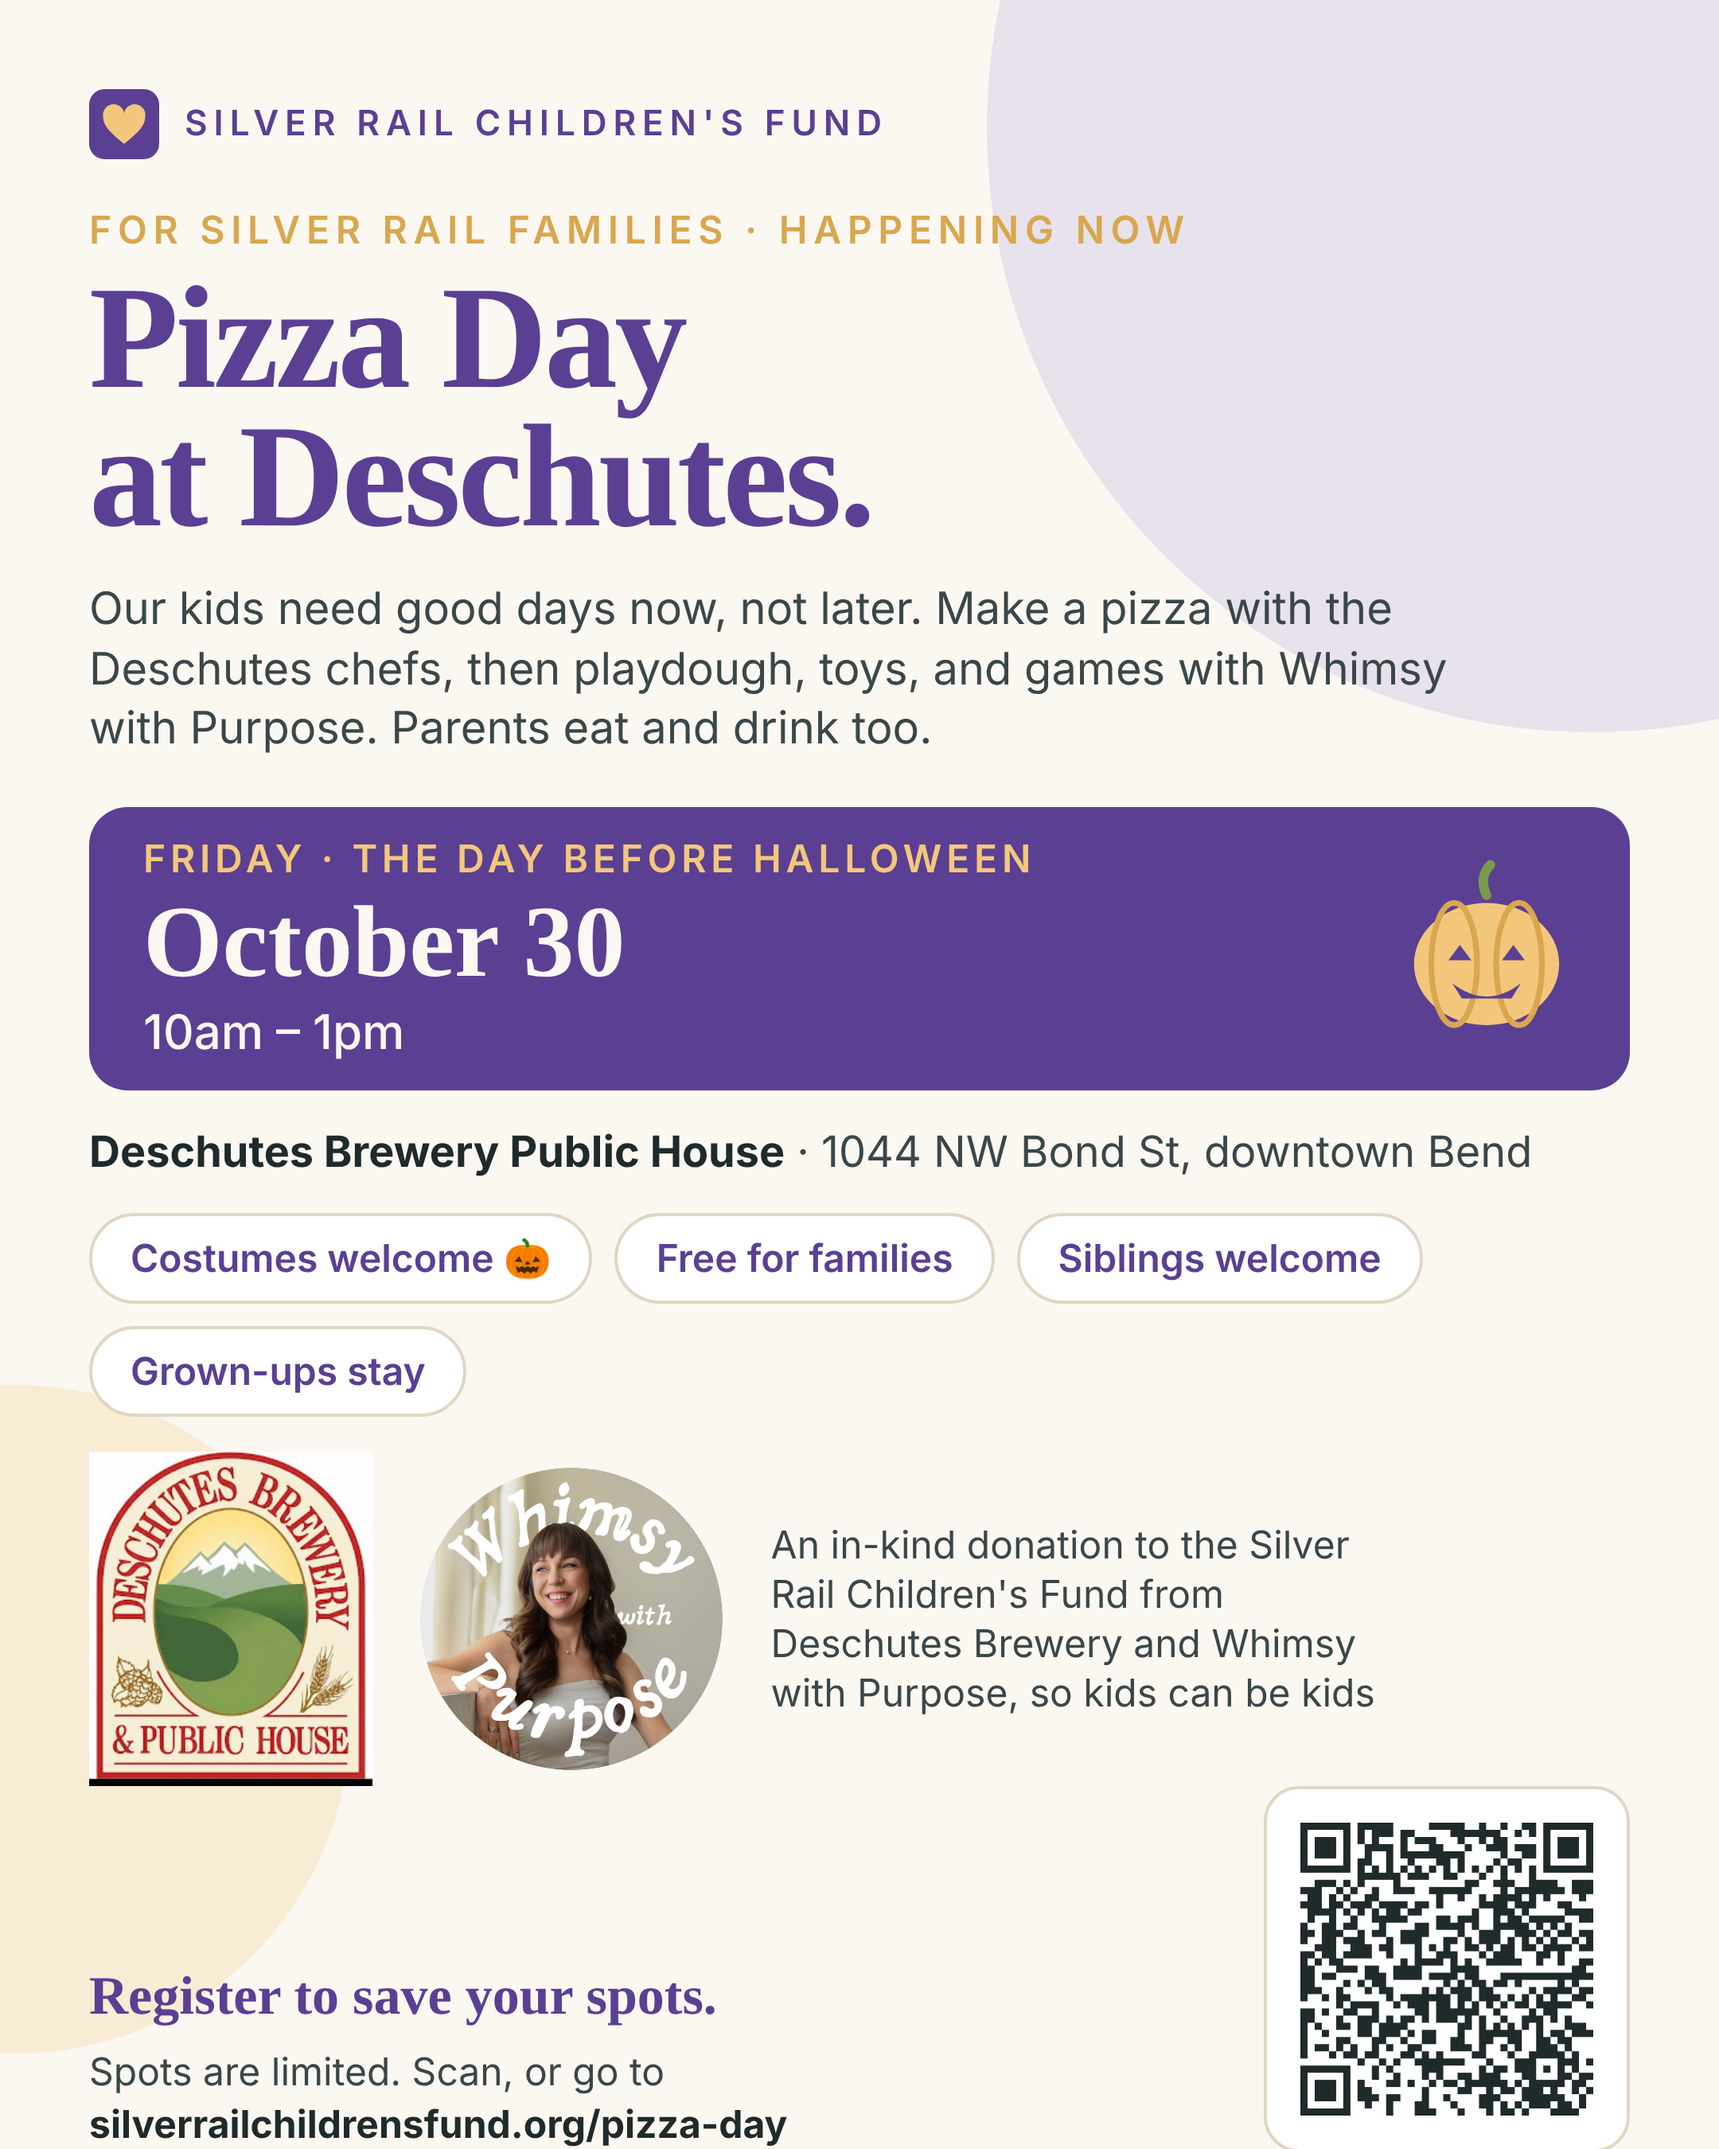
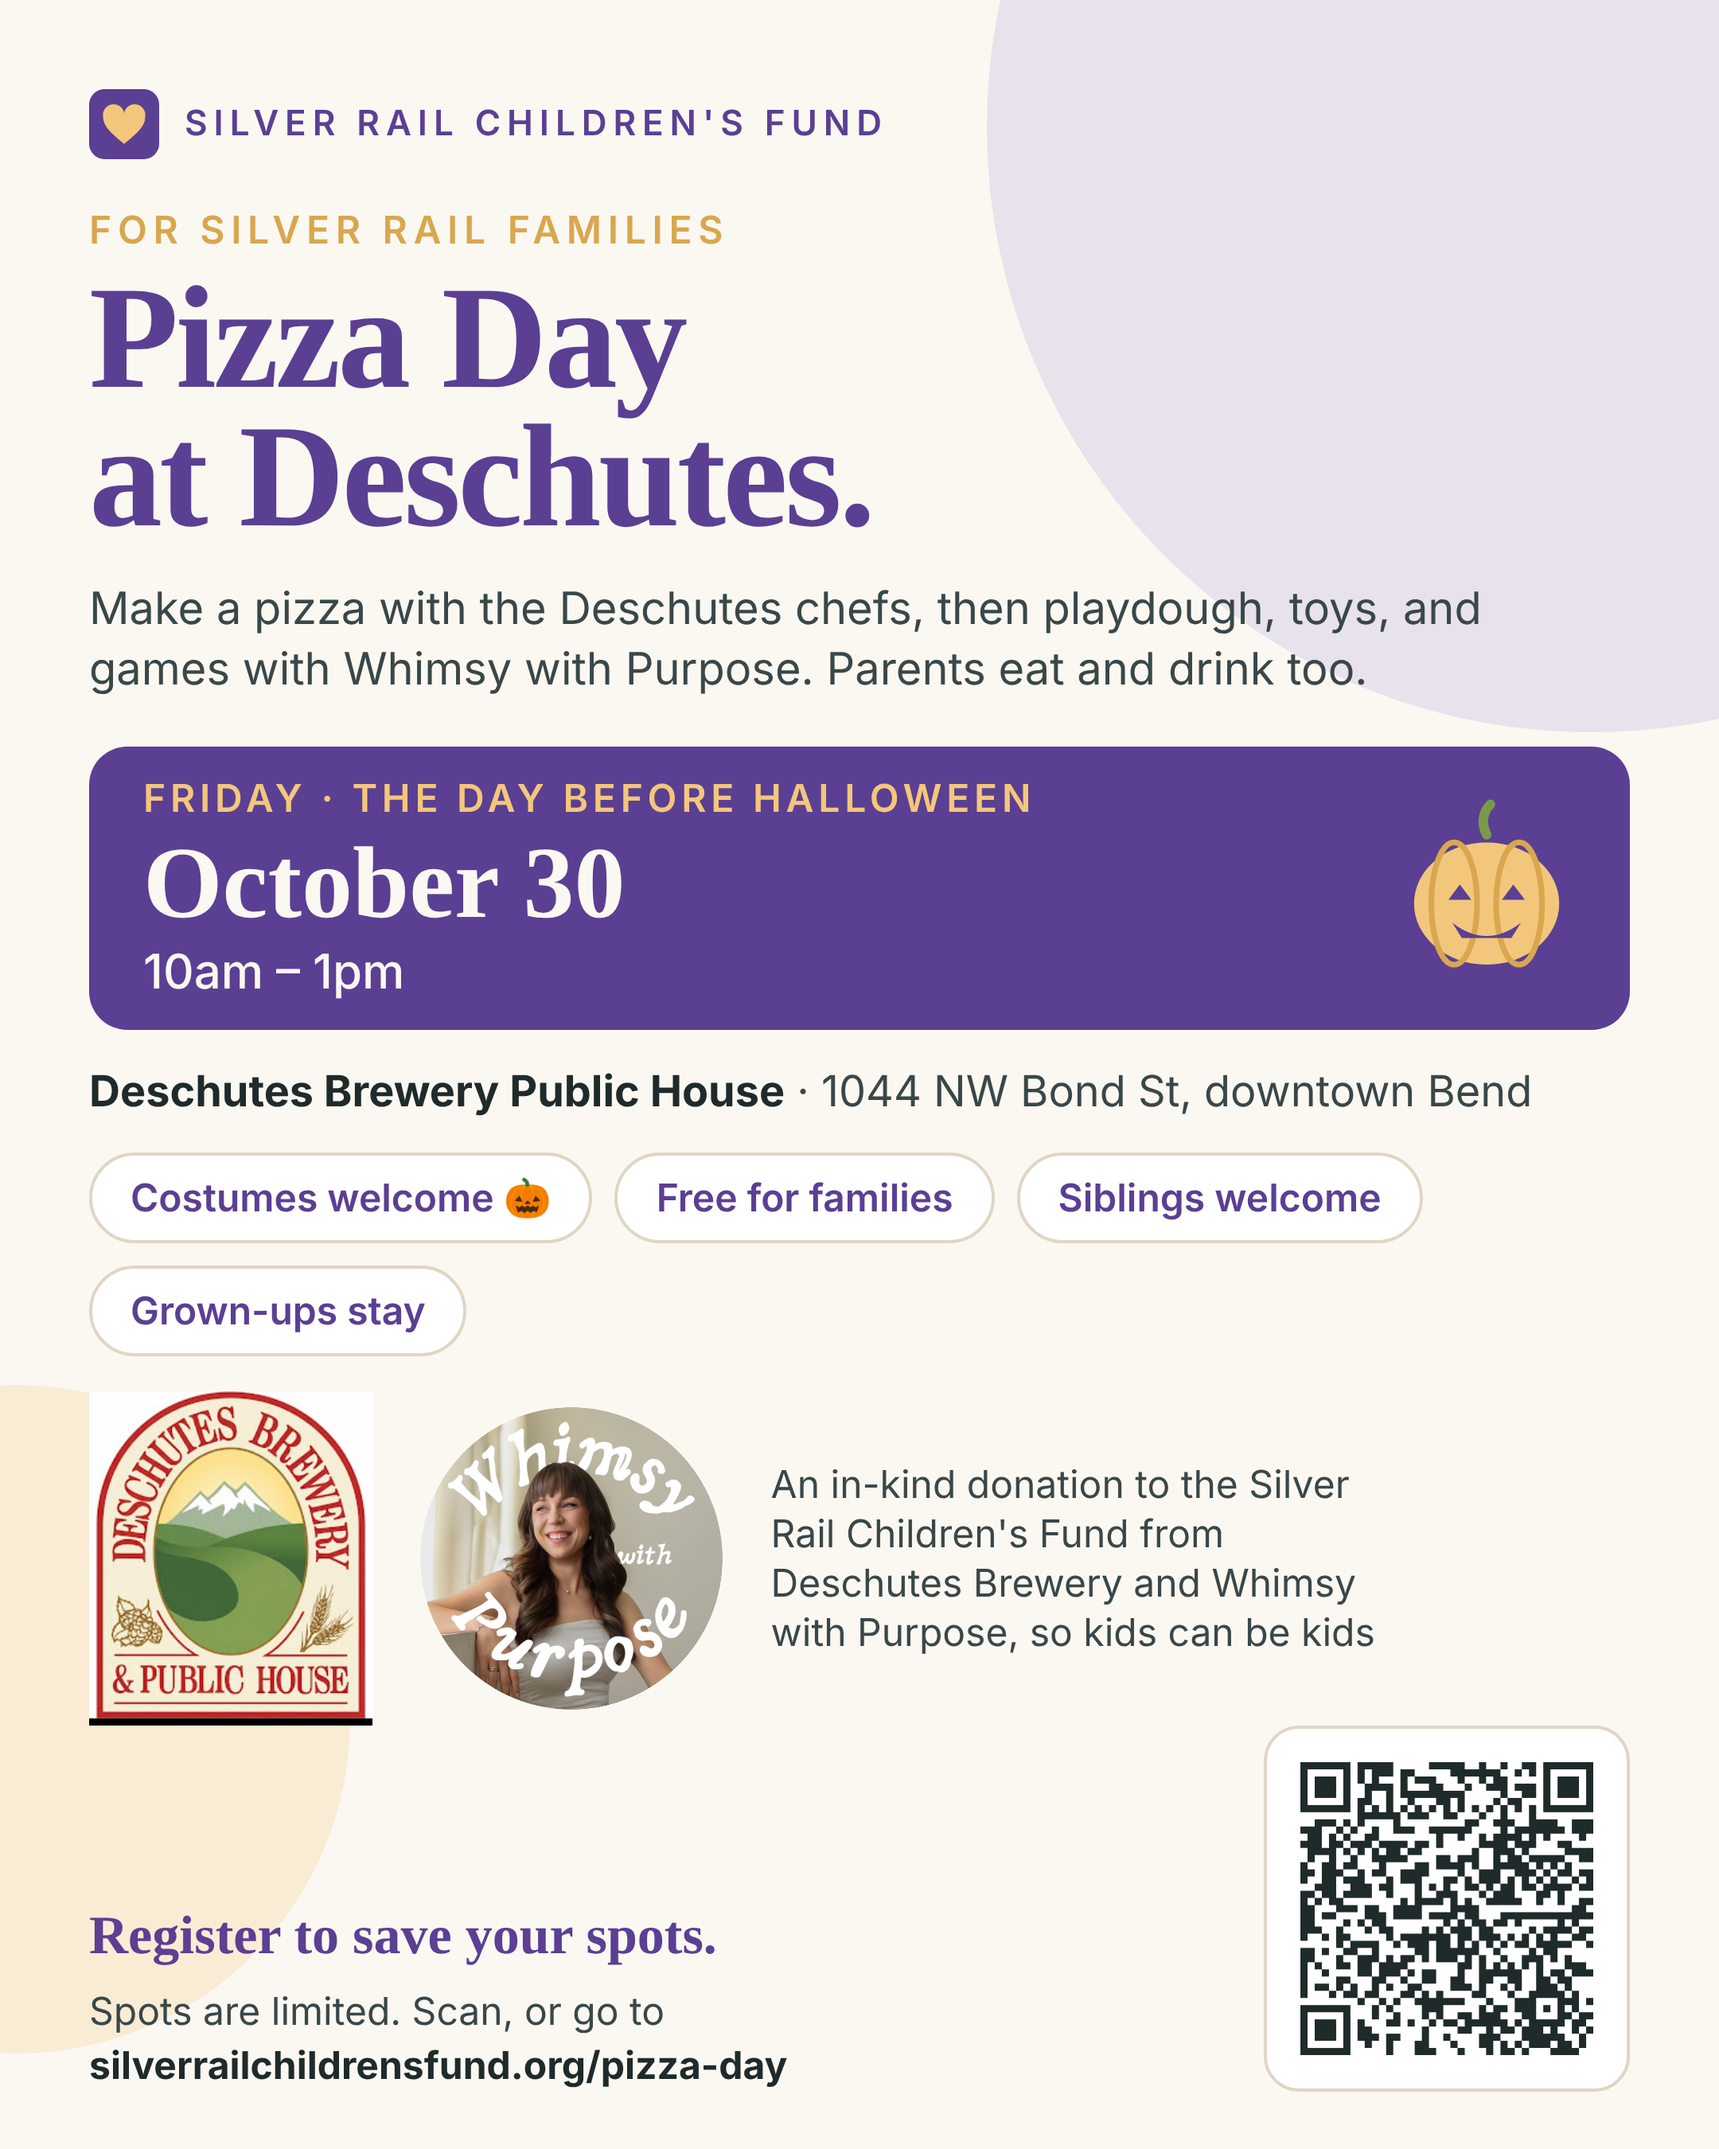
Pizza Day: soften positioning
Claude-Session: https://claude.ai/code/session_019jt2LXU3CZrv6nyaaDTgQ8

diff --git a/pizza-day.html b/pizza-day.html
@@ -154,7 +154,7 @@ dl.faq dd{margin:4px 0 0;color:var(--ink-2)}
   <div class="wrap">
     <div class="eyebrow">Pizza Day · Downtown Bend</div>
     <h1>Make a pizza with the chefs.</h1>
-    <p class="lede">Our children need good days now, not after the paperwork. So this is happening now. Deschutes Brewery is hosting Silver Rail kids and their families at the Public House downtown. Kids make their own pizza with the Deschutes chefs, make playdough, and play games led by Whimsy with Purpose. This is an in-kind donation: Deschutes is giving the space, the staff, the food, and the drinks. Whimsy with Purpose is giving the play. Families just show up.</p>
+    <p class="lede">Deschutes Brewery is hosting Silver Rail kids and their families at the Public House downtown. Kids make their own pizza with the Deschutes chefs, make playdough, and play games led by Whimsy with Purpose. This is an in-kind donation: Deschutes is giving the space, the staff, the food, and the drinks. Whimsy with Purpose is giving the play. Families just show up.</p>
     <a class="btn" href="#register">Register your family</a>
   </div>
 </div>
@@ -202,7 +202,7 @@ dl.faq dd{margin:4px 0 0;color:var(--ink-2)}
       </div>
       <div>
         <h3>Deschutes Brewery &amp; Whimsy with Purpose</h3>
-        <p><a href="https://www.deschutesbrewery.com/" target="_blank" rel="noopener">Deschutes Brewery</a> is giving all of it as an in-kind donation to the Silver Rail Children's Fund, to be used now, in the immediate aftermath: the Public House, the chefs' time, every pizza, and the drinks. Nothing about this day costs the fund a dollar. <a href="https://www.instagram.com/whimsywithpurpose/" target="_blank" rel="noopener">Whimsy with Purpose</a> is bringing the playdough, the toys, and the games. Go say thank you.</p>
+        <p><a href="https://www.deschutesbrewery.com/" target="_blank" rel="noopener">Deschutes Brewery</a> is giving all of it as an in-kind donation to the Silver Rail Children's Fund, the Public House, the chefs' time, every pizza, and the drinks. Nothing about this day costs the fund a dollar. <a href="https://www.instagram.com/whimsywithpurpose/" target="_blank" rel="noopener">Whimsy with Purpose</a> is bringing the playdough, the toys, and the games. Go say thank you.</p>
       </div>
     </div>
   </div>
